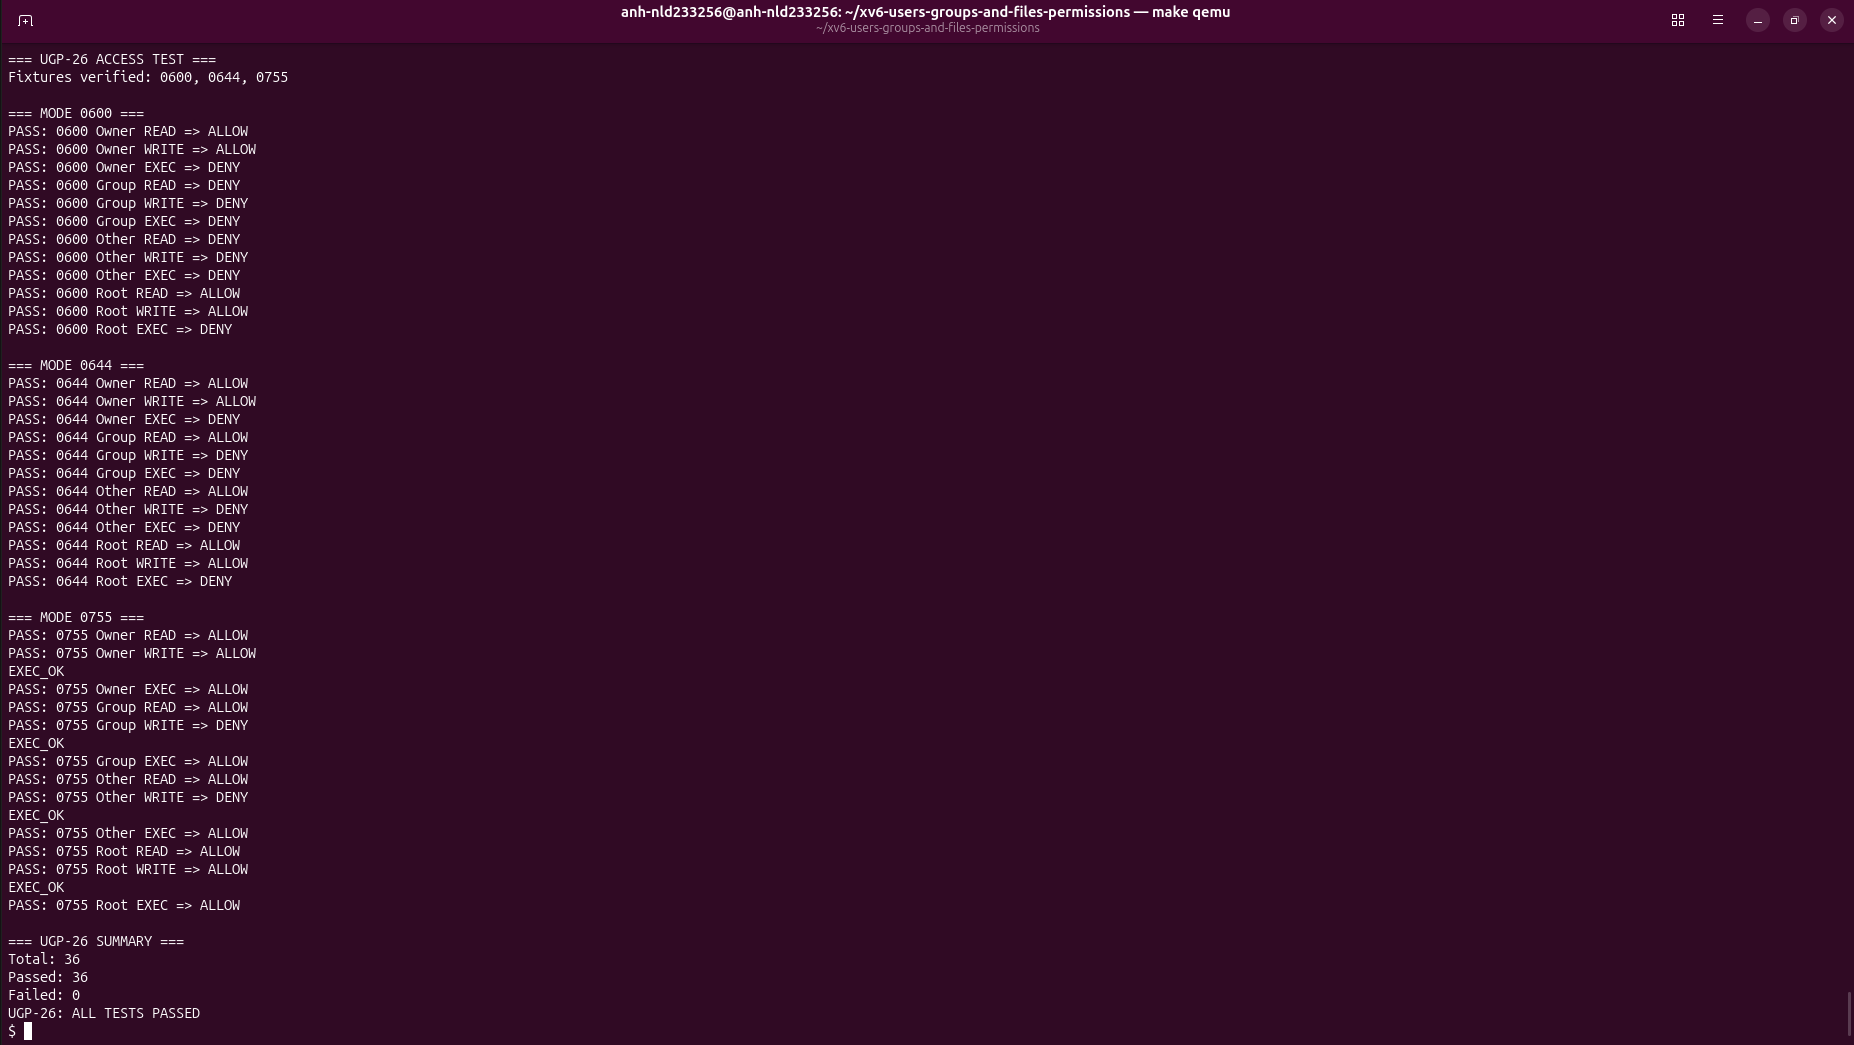
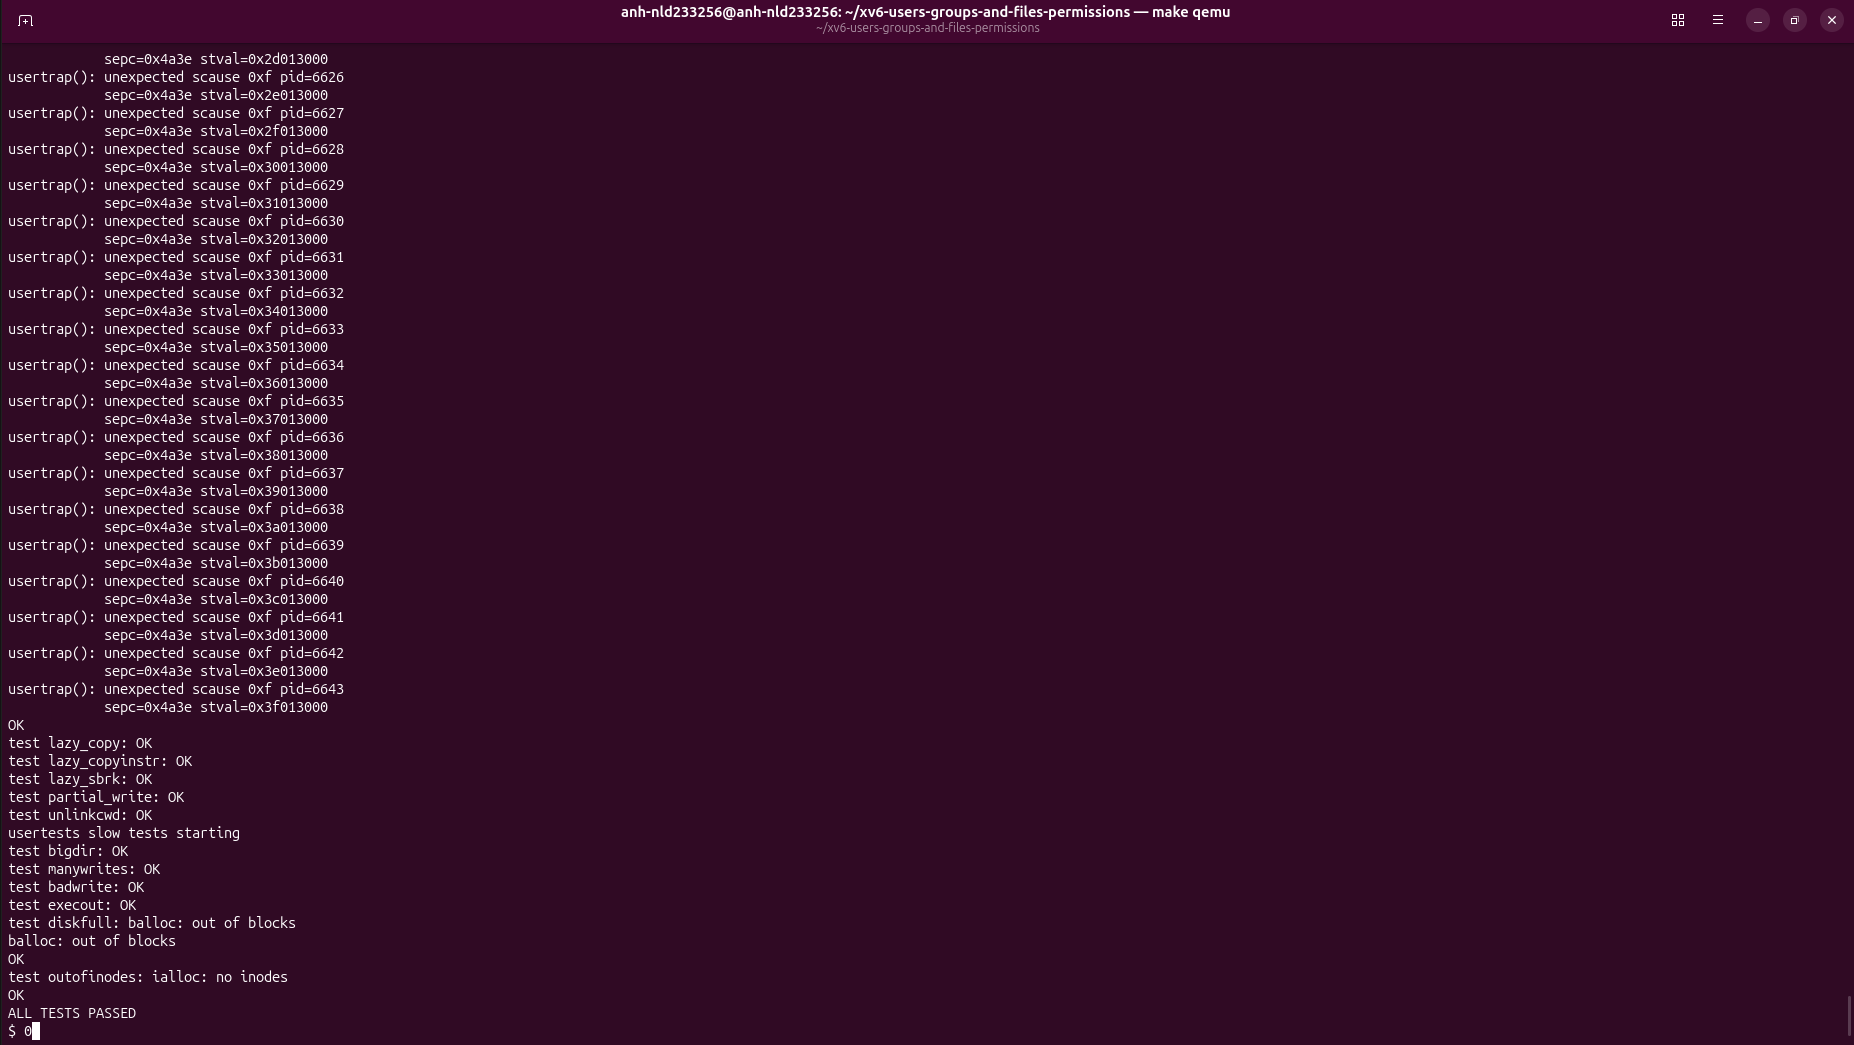
test(UGP-27): add regression test evidence

Changed region(s): [[0.0, 0.0306, 0.1845, 1.0]]

diff --git a/user/grind.c b/user/grind.c
@@ -267,7 +267,7 @@ go(int which_child)
         }
         close(bb[1]);
         char *args[2] = {"cat", 0};
-        exec("/cat", args);
+        exec("/bin/cat", args);
         fprintf(2, "grind: cat: not found\n");
         exit(6);
       } else if (pid2 < 0) {
